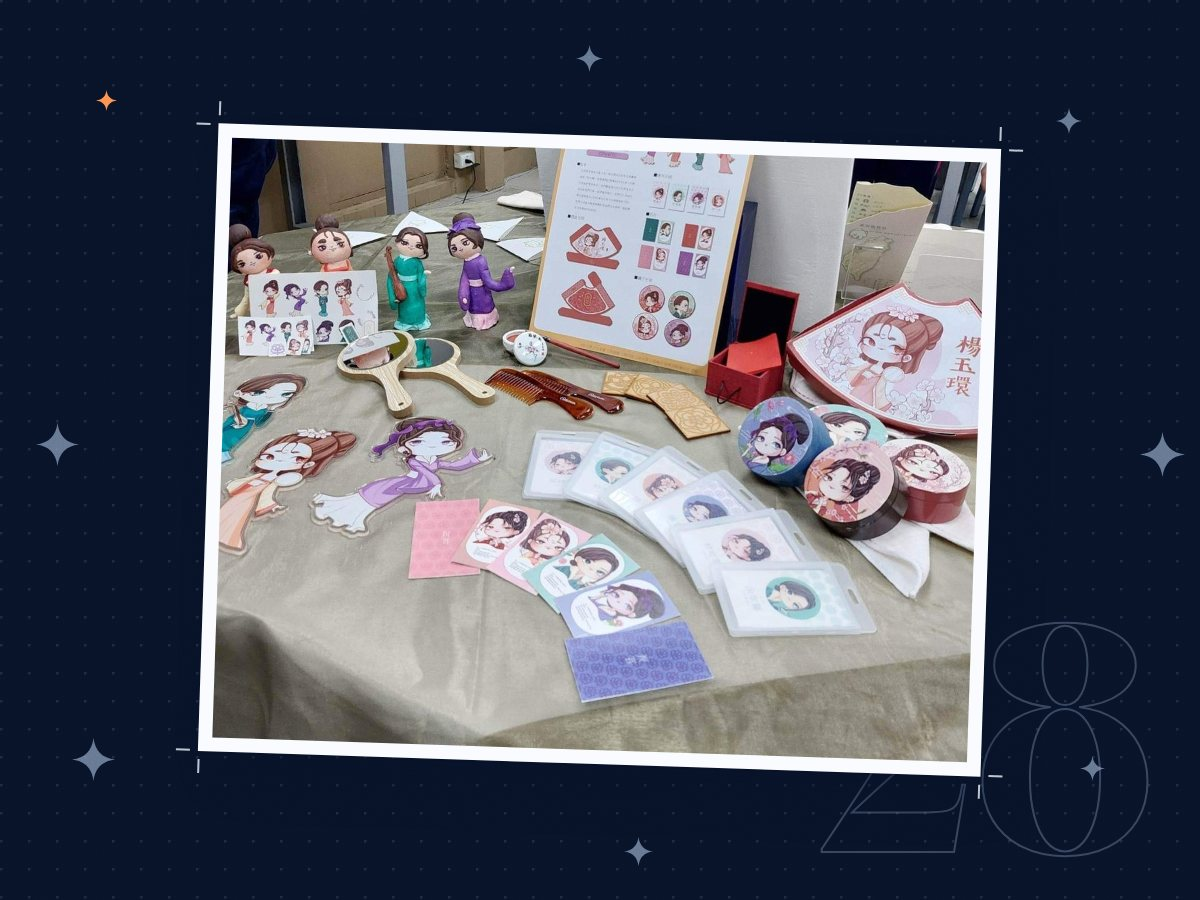
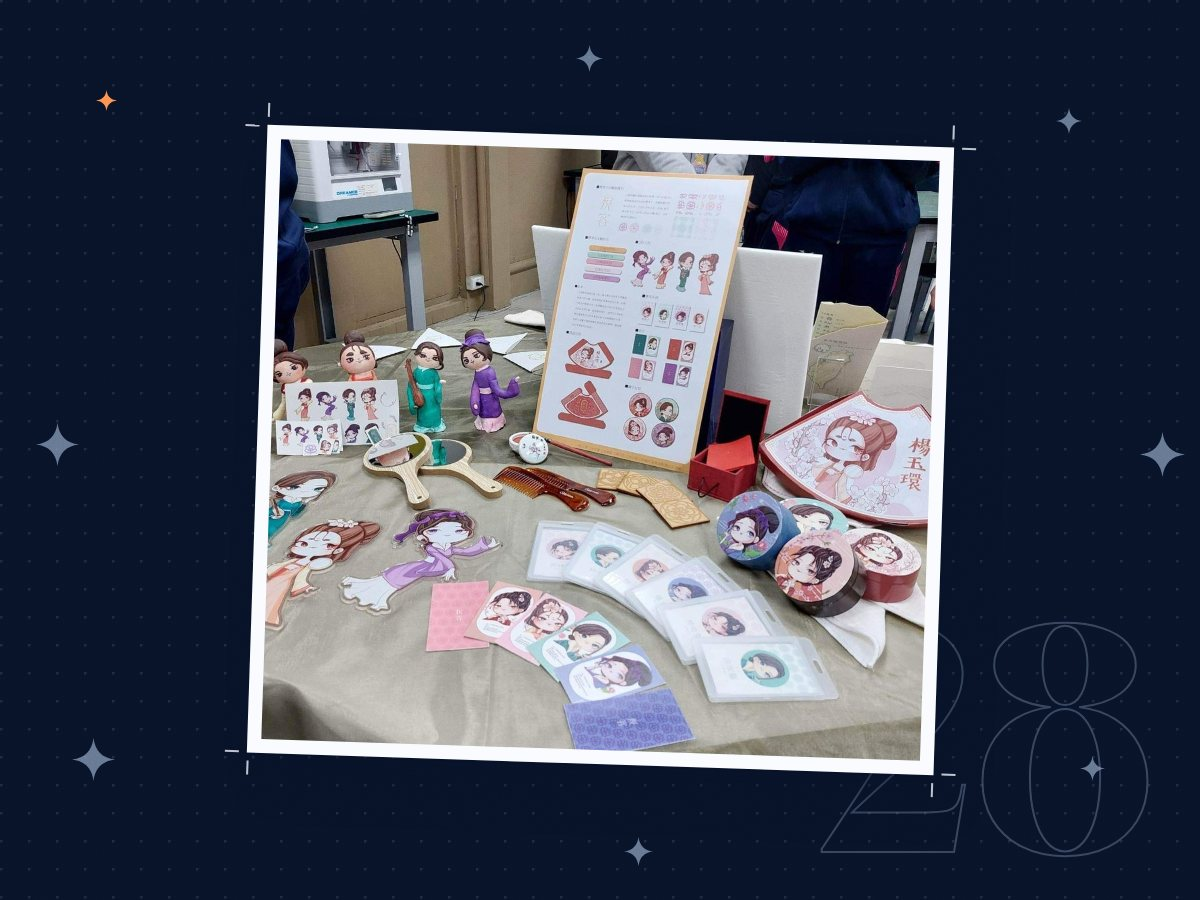
Yue Rong: crop to the table and board as requested
Claude-Session: https://claude.ai/code/session_01GPGckZEsofTcxj1jt2CKdh

diff --git a/src/data/works.ts b/src/data/works.ts
@@ -278,7 +278,7 @@ export const works: Work[] = [
     summary: '高中專題。以古代人物為題的仿古 Q 版角色 IP，設定為化妝品品牌。展桌上有黏土公仔、壓克力立牌、識別證套、名片、圓形鐵盒與扇形包裝等周邊，旁邊的說明板整理了標準字、色票與角色設定。',
     tags: ['Character IP', 'Packaging', 'Brand Identity'],
     images: [
-      { src: '/works/yuerong.jpg', alt: '悅容展桌：黏土公仔、壓克力立牌、識別證套、名片、圓形鐵盒與扇形包裝，後方是說明板', w: 1045, h: 830 },
+      { src: '/works/yuerong.jpg', alt: '悅容展桌：黏土公仔、壓克力立牌、識別證套、名片、圓形鐵盒與扇形包裝，後方是說明板', w: 1035, h: 943 },
     ],
   },
   {
